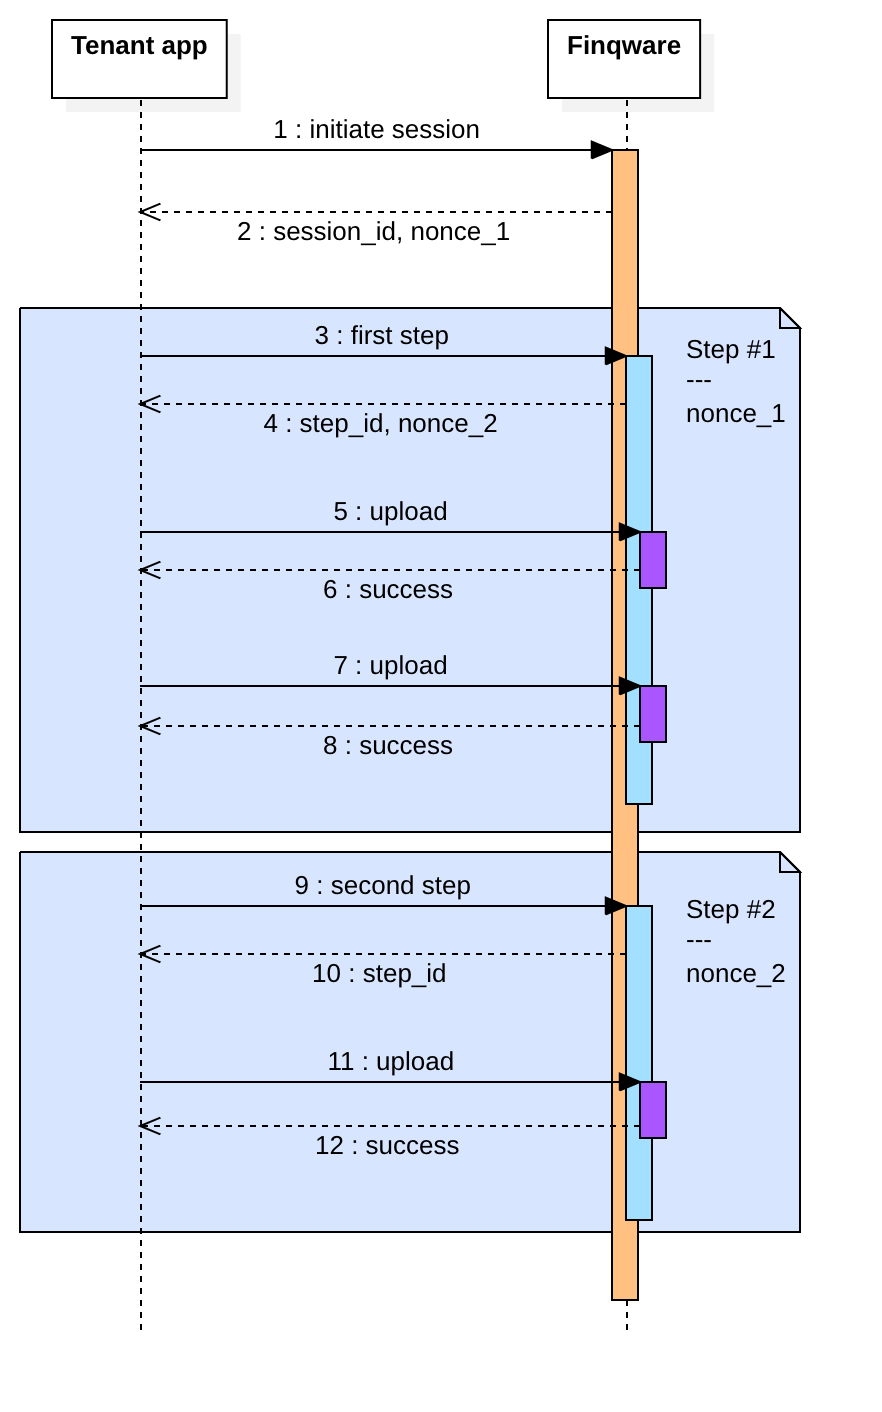
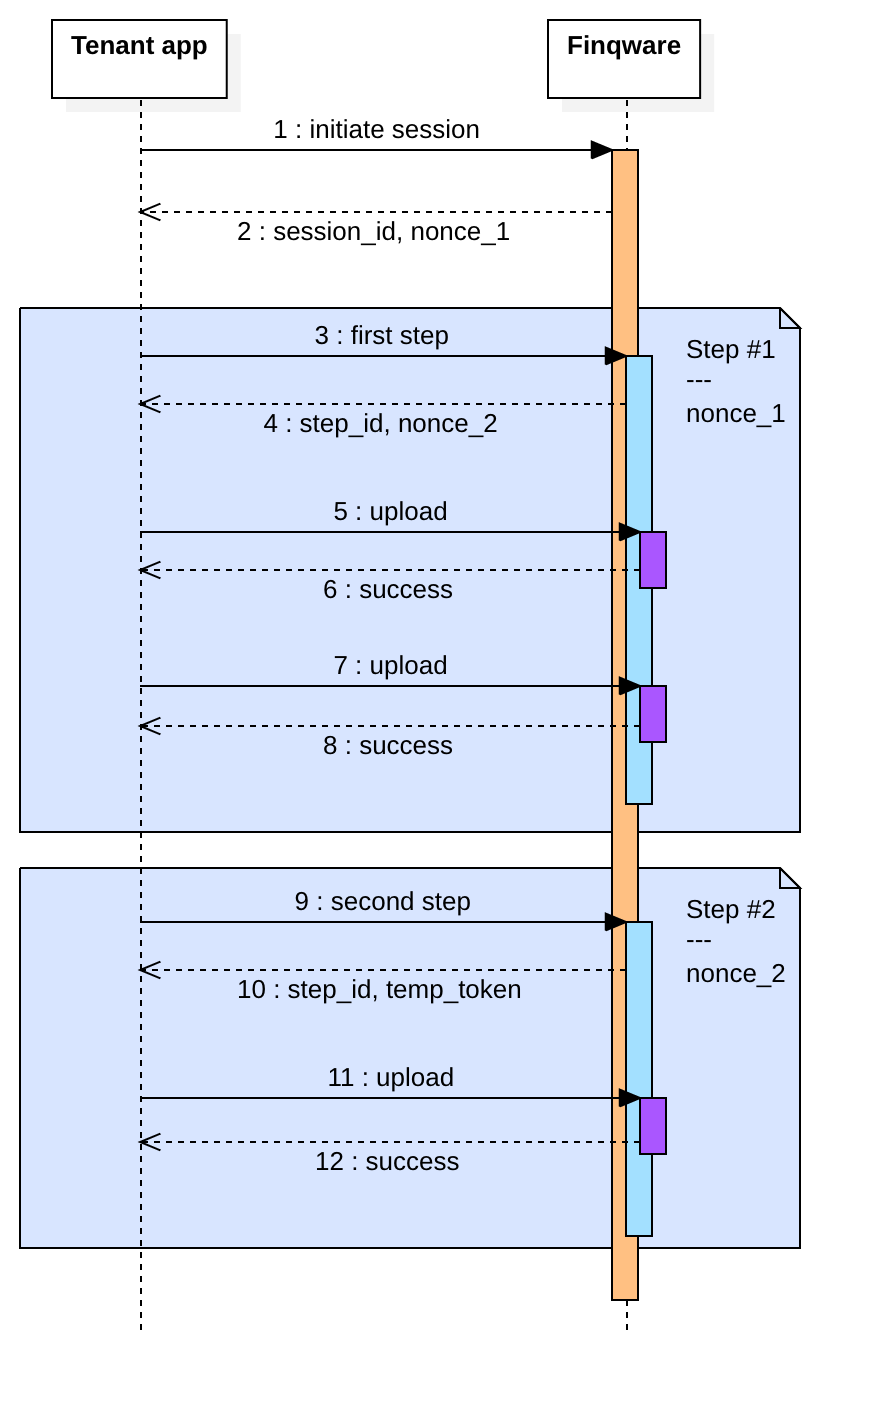
add session-hl

diff --git a/index.html b/index.html
@@ -380,7 +380,9 @@
 
 <p>They do not expire, but can be refreshed using the developer&#39;s portal.</p>
 
-<p>As you&#39;ll notice in the developer&#39;s <a href="#guide">guide</a>, a user session ends with receiving a <code>temp_token</code>. The reason we&#39;re not sending the <code>access_token</code> directly is that we designed the session flow to be developed entirely in a web/mobile context. This choice also facilitates the use of client SDKs. Hence the middleware returns a temporary token that needs to be sent to your backend first and then exchanged for the final <code>access_token</code> via a server-to-Finqware API call. As a side note: we&#39;re also considering using a callback endpoint as an option, where Finqware calls an API endpoint provided by your server for the token exchange.</p>
+<p>As you&#39;ll notice in the developer&#39;s <a href="#guide">guide</a>, a user session ends with receiving a <code>temp_token</code>. The reason we&#39;re not sending the <code>access_token</code> directly is that we designed the session flow to be developed entirely in a web/mobile context. This choice also facilitates the future development of client SDKs. Hence the middleware returns a temporary token that needs to be sent to your backend first and then exchanged for the final <code>access_token</code> via a server-to-Finqware API call.</p>
+
+<p>As a side note: we&#39;re also considering introducing a callback endpoint as an option. Following the end of a session, Finqware would call an API endpoint provided by your server for the token exchange.</p>
 <h3 id='user-level-elements'>User-level elements</h3>
 <p>Taking a user through a <a href="#user-onboarding">session</a> is about obtaining consent to access their data (eg: an existing bank account), or creating new value for that user (eg: selling a new insurance). In both cases, there is at least one target object created at the middleware level.</p>
 
@@ -403,7 +405,7 @@
 <li><p>A Backend/server piece that consumes data the user has already consented for in the previous step.</p></li>
 </ol>
 <h2 id='user-onboarding'>User onboarding</h2>
-<p>The first thing to focus on is to offer your user a smooth onboarding experience. It may be a classic wizard with a step-by-step approach or a more inovative approach like chatbot or voice-based UIs.</p>
+<p>The first thing to focus on is to offer your user a smooth onboarding experience. You may design a classic wizard with a step-by-step approach or have a more inovative approach like chatbot or voice-based UIs.</p>
 
 <p>The <a href="#sessions-api">Sessions API</a> helps you implement such a UI. A session is very similar to what most of us know from web programming: an ordered sequence of steps that share the same state. Although this is a unified developer experience, each skill may have particular steps to implement.</p>
 
@@ -468,6 +470,17 @@
 <p>Use the <code>/steps/{step_id}/upload</code> endpoint to submit uploads for a specific step.</p>
 
 <p><img src="images/finq_session.png" alt="image" /></p>
+
+<p>In the above diagram please notice the moments where <code>nonce</code> for each step and the <code>temp_token</code> are generated.
+The nonce to be used for any API call related to step #1 is generated when the session is initialized. The nonce to be used for any API call related to step #2 is generated when step #1 data is submitted.</p>
+
+<p>The <a href="#security-model">temp_token</a> is generated when you submit data with the last step - in the example above, the session has two steps, hence it&#39;s generated with Step #2. This marks the end of a successful user session: user consent has been given or the product onboarding was done without any issue.</p>
+
+<p>This is an important point in this flow, as you need to make the switch to the server-side. The switch is made by sending the <code>temp_token</code> to your backend server. This is where you call the <code>/token</code> endpoint to exchange it for an <code>access_token</code> along with the <code>credentials_id</code> that points to the newly created object/s.</p>
+
+<p><img src="images/session_high_level.png" alt="image" /></p>
+
+<p>The call to <code>/token</code> is authenticated by using the <code>client_id</code> and <code>client_secret</code>. The <code>access_token</code> along with the <code>credentials_id</code> need to be stored by your backend along with the end-user data. Using these two elements you will request, for example, an updated transaction report for the bank account the user consented access for.</p>
 <h1 id='catalog-api'>Catalog API</h1><h1 id='sessions-api'>Sessions API</h1><h1 id='aisp-apis'>AISP APIs</h1><h1 id='marketplace-apis'>Marketplace APIs</h1><h1 id='errors'>Errors</h1>
 <aside class="notice">
 This error section is stored in a separate file in <code>includes/_errors.md</code>. Slate allows you to optionally separate out your docs into many files...just save them to the <code>includes</code> folder and add them to the top of your <code>index.md</code>'s frontmatter. Files are included in the order listed.
